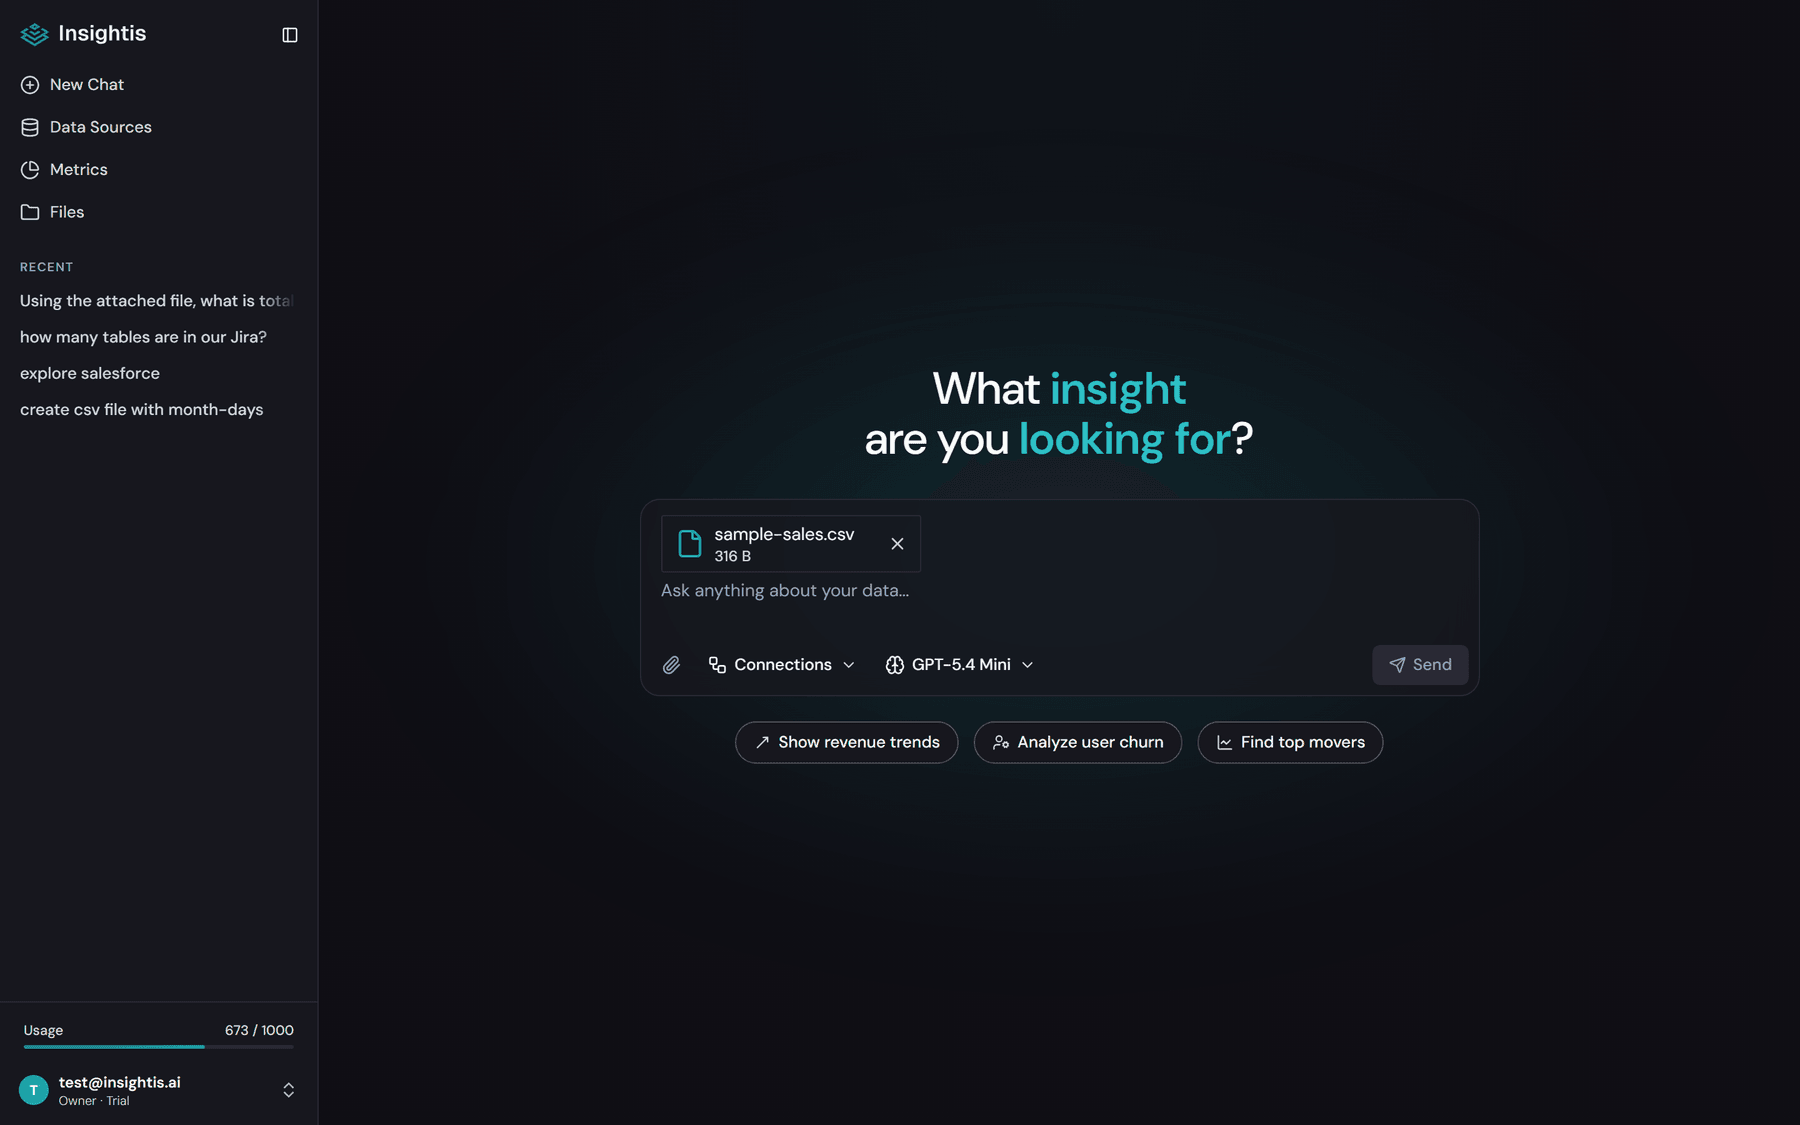
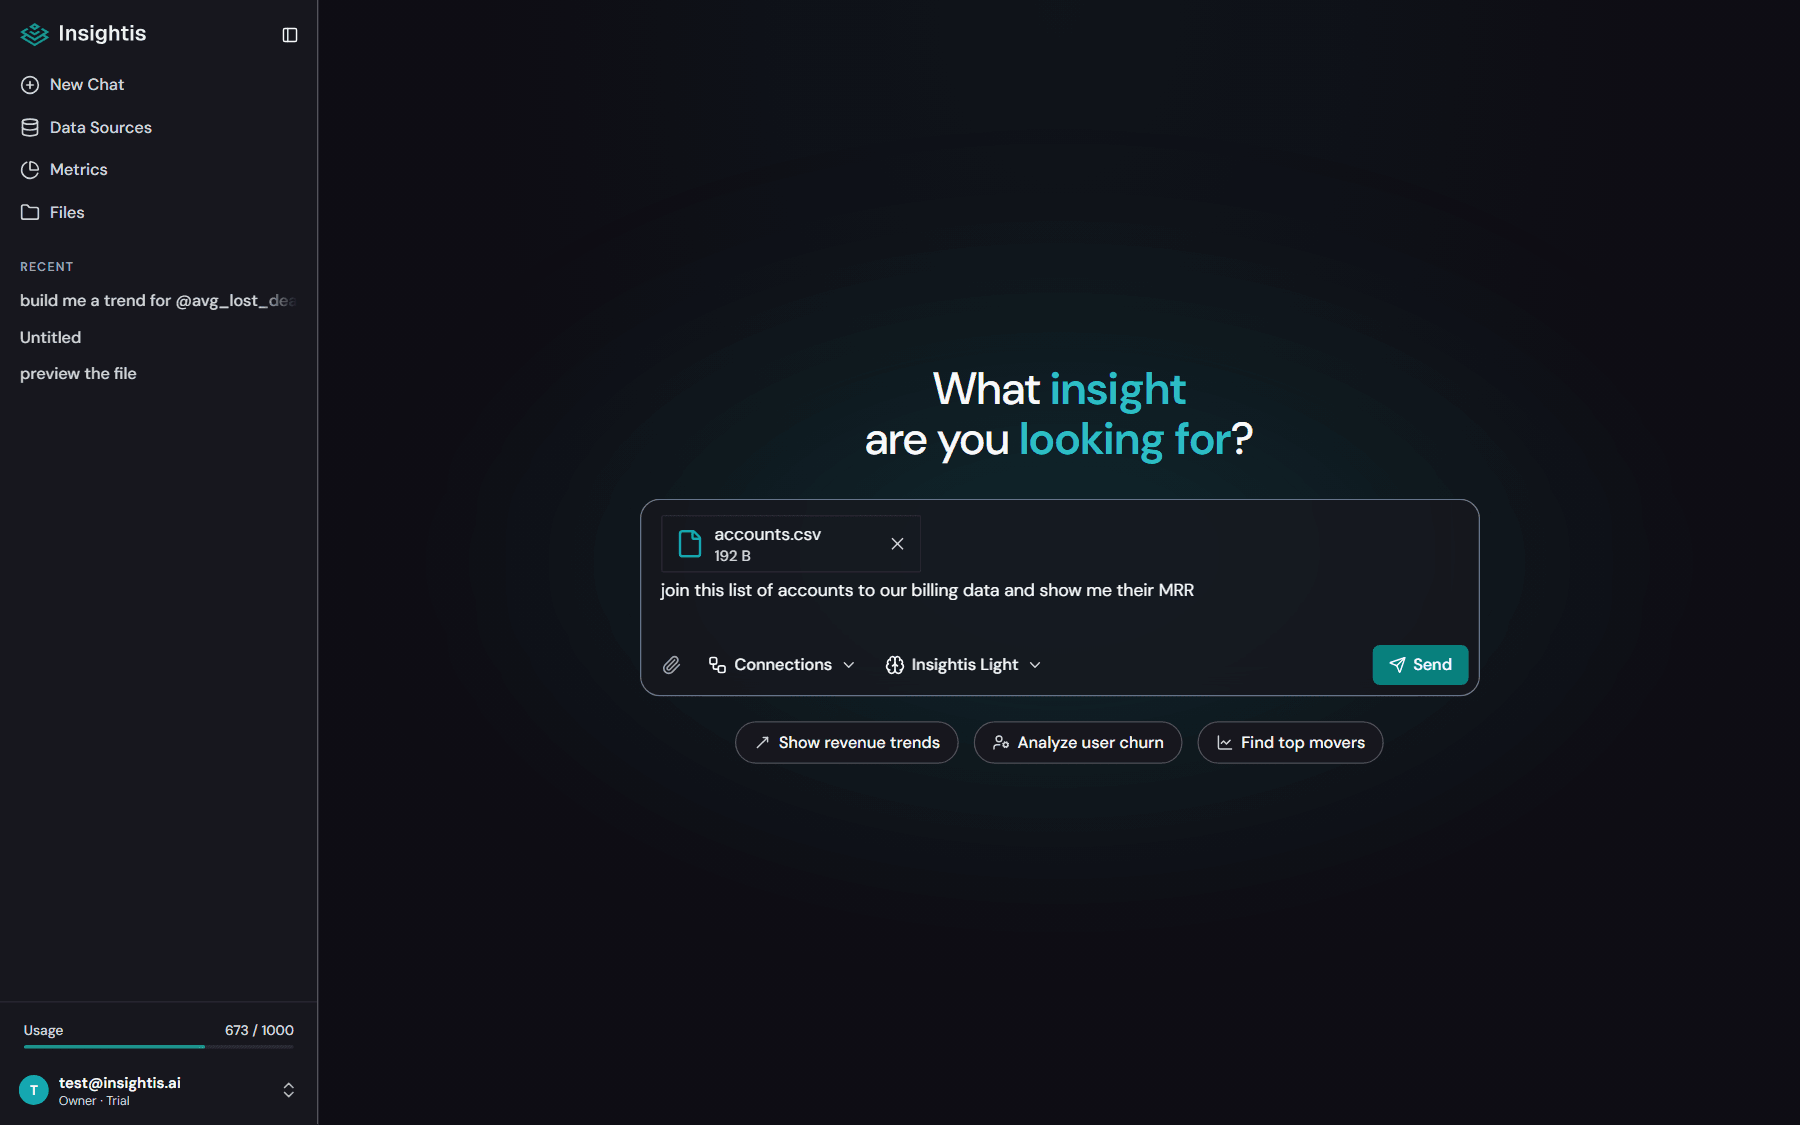
docs: rename models to Light/Medium/Pro, recapture chat screenshots
The app shipped the three models as Insightis Light / Medium / Pro, but the
docs still said Standard and Ultra from an earlier naming round, and every
chat screenshot still showed the old vendor model names in the composer.

- Rename Standard -> Medium and Ultra -> Pro across ai-chat.md and
  ai-model.md (14 references). The unrelated "Standard requests" wording in
  data-storage.md is left alone.
- Recapture all four chat screenshots against the live app, same dark
  full-page framing: the model chip now reads "Insightis Light" in each.
- Wire chat-model-select.png into the "Choosing a model" section. It shows
  the menu open with Light checked plus Medium and Pro, and was previously
  unreferenced because it still had the old names.
- Retake chat-basic-message.png with the current prompt and the current
  reply structure, which changed: replies now lead with how the question
  was interpreted, then a "Key numbers" table, then "What stands out", and
  close with a follow-up offer. Framed taller so the whole reply fits.
- Update that image's caption and the three numbered steps under it to
  describe the new structure, and mention the @metric autocomplete.

diff --git a/docs/content/ai-model.md b/docs/content/ai-model.md
@@ -1,6 +1,6 @@
 ---
 title: AI Models
-description: Insightis offers three AI models — Insightis Light, Insightis Standard, and Insightis Ultra. Each combines the strengths of OpenAI and Anthropic models and matches the reasoning effort to the complexity of your question, so everyday asks stay fast and token-efficient while your resources are kept for the analyses that need real depth.
+description: Insightis offers three AI models — Insightis Light, Insightis Medium, and Insightis Pro. Each combines the strengths of OpenAI and Anthropic models and matches the reasoning effort to the complexity of your question, so everyday asks stay fast and token-efficient while your resources are kept for the analyses that need real depth.
 breadcrumb: Docs / Reference / AI Models
 ---
 
@@ -9,8 +9,8 @@ breadcrumb: Docs / Reference / AI Models
 Insightis ships with three AI models, and every chat runs on one of them:
 
 - **Insightis Light** — the fast, efficient model for everyday questions.
-- **Insightis Standard** — the balanced default for most analytical work.
-- **Insightis Ultra** — the deep-reasoning model for complex, multi-step analyses.
+- **Insightis Medium** — the balanced default for most analytical work.
+- **Insightis Pro** — the deep-reasoning model for complex, multi-step analyses.
 
 None of them is a single third-party model with a new name. All three are Insightis model configurations that combine **OpenAI** and **Anthropic** models under the hood, routing each step of your question to whichever model handles that step best. What separates them is not the provider — it is how much reasoning effort is applied to your case.
 
@@ -34,24 +34,24 @@ Light is tuned for speed and efficiency. It is the right choice for the question
 
 Because Light spends less reasoning per question, it answers faster and consumes fewer tokens. For routine work, that difference compounds — a team asking dozens of everyday questions on Light stretches its monthly allowance much further than it would running everything at full depth.
 
-## Insightis Standard
+## Insightis Medium
 
-Standard sits between Light and Ultra, and it is the balanced choice for most analytical work — enough reasoning to plan a multi-part answer, without the full cost of a deep investigation. Reach for it when:
+Medium sits between Light and Pro, and it is the balanced choice for most analytical work — enough reasoning to plan a multi-part answer, without the full cost of a deep investigation. Reach for it when:
 
 - The question spans more than one metric or table but the shape of the answer is clear.
 - You want a chart plus a written interpretation, not just a number.
 - Light returned something thinner than you expected and you want another pass at moderate cost.
 
-## Insightis Ultra
+## Insightis Pro
 
-Ultra applies the full reasoning depth of the combined OpenAI and Anthropic stack. Reach for it when the question is genuinely hard:
+Pro applies the full reasoning depth of the combined OpenAI and Anthropic stack. Reach for it when the question is genuinely hard:
 
 - Multi-step analyses that chain several queries together.
 - Questions that join data across multiple connected sources.
 - Open-ended or ambiguous asks — "what's driving the drop in activation?"
 - Root-cause exploration where the model needs to test several hypotheses before answering.
 
-Ultra takes longer per answer and consumes more tokens per question — that is the cost of deeper planning, broader context, and more careful verification. In exchange, it produces the kind of thorough, well-grounded analysis that would otherwise take an analyst a working session to assemble.
+Pro takes longer per answer and consumes more tokens per question — that is the cost of deeper planning, broader context, and more careful verification. In exchange, it produces the kind of thorough, well-grounded analysis that would otherwise take an analyst a working session to assemble.
 
 ## Why we combine providers
 
@@ -62,8 +62,8 @@ Different model families are good at different things. OpenAI's frontier models 
 Tokens are the unit of AI usage in Insightis, and the model you run on is the biggest factor in how fast they are consumed. The practical guidance is simple:
 
 - Default to **Light** for day-to-day questions — it keeps token usage lean and predictable.
-- Use **Standard** for everyday analysis that needs a chart and an interpretation, not just a lookup.
-- Switch to **Ultra** when the case is complex enough to justify the spend — deep dives, cross-source investigations, analyses you will put in front of leadership.
+- Use **Medium** for everyday analysis that needs a chart and an interpretation, not just a lookup.
+- Switch to **Pro** when the case is complex enough to justify the spend — deep dives, cross-source investigations, analyses you will put in front of leadership.
 
 This split is what keeps usage fair to the work being done: you are never paying deep-reasoning prices for shallow questions, and you always have resources left for the cases that matter. See [Plans and tokens](/docs/plans-and-tokens) for how subscription tokens and one-time packs work.
 

diff --git a/docs/content/ai-chat.md b/docs/content/ai-chat.md
@@ -20,11 +20,11 @@ If your question is ambiguous — for example, a metric name that maps to two di
 
 Type your question into the message box at the bottom of the chat and press **Send** (or hit Enter). Insightis interprets the request, works through it against your data, and replies in the thread with the result — a chart, the underlying numbers, and a short written summary. For a multi-step analysis it briefly outlines its plan first, so you can confirm the approach before it runs.
 
-![An answered question in AI Chat — the figures, a written summary, and the chart Insightis generated](/assets/docs/chat-basic-message.png)
+![An answered question in AI Chat — how Insightis read the question, a Key numbers table, what stands out, and the chart it generated](/assets/docs/chat-basic-message.png)
 
-1. Type a question in plain English — for example, *"What is total revenue by region?"*
-2. Press **Send**. Insightis outlines the steps it will take, then runs the analysis once you confirm.
-3. Read the answer — the figures, a plain-language summary, and any chart it generated. Generated charts and files are saved to your workspace so you can reuse them later.
+1. Type a question in plain English — for example, *"show me a trend for @avg_lost_deal_size by month"*. Typing `@` brings up your [metrics](/docs/metrics), so an answer is grounded in the definition you already agreed on.
+2. Press **Send**. Insightis states how it interpreted the question, then works through it — you can stop it at any point while it runs.
+3. Read the answer — a **Key numbers** table, a short *What stands out* summary, and any chart it generated. Generated charts and files are saved to your workspace so you can reuse them later.
 
 ## Asking follow-up questions
 
@@ -71,10 +71,12 @@ Use the **Connections** menu in the message box to control which connected data 
 Insightis offers three models, switchable from the message box at any point in a conversation:
 
 - **Insightis Light** — fast, everyday answers; best for quick lookups and follow-ups.
-- **Insightis Standard** — the balanced choice for most analytical work.
-- **Insightis Ultra** — the deepest reasoning, for complex multi-step analyses.
+- **Insightis Medium** — the balanced choice for most analytical work.
+- **Insightis Pro** — the deepest reasoning, for complex multi-step analyses.
 
 Open the model menu in the message box — it shows the model currently in use — and pick the one that fits your question. The choice applies to your next message, so you can start on Light and switch to a deeper model mid-conversation if an answer needs more analysis. See [AI Models](/docs/ai-models) for what each one is tuned for.
+
+![The model menu open in the message box, listing Insightis Light, Medium, and Pro](/assets/docs/chat-model-select.png)
 
 ## Writing effective questions
 
